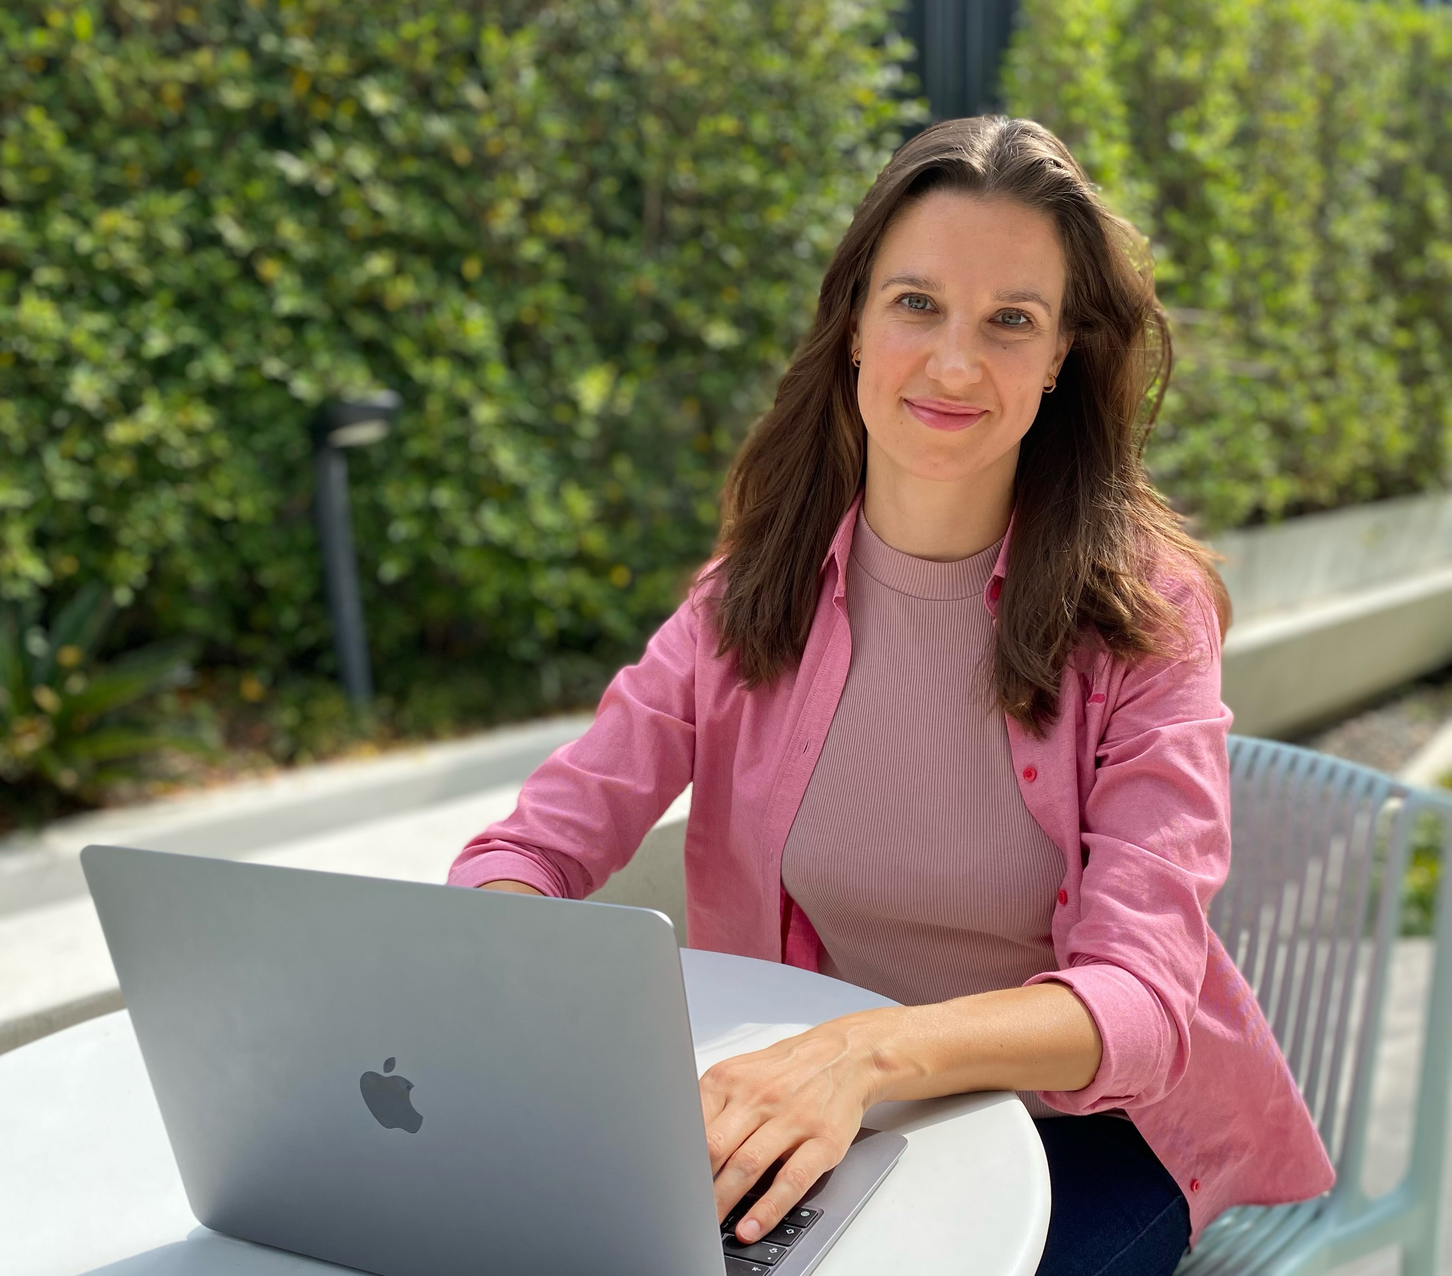
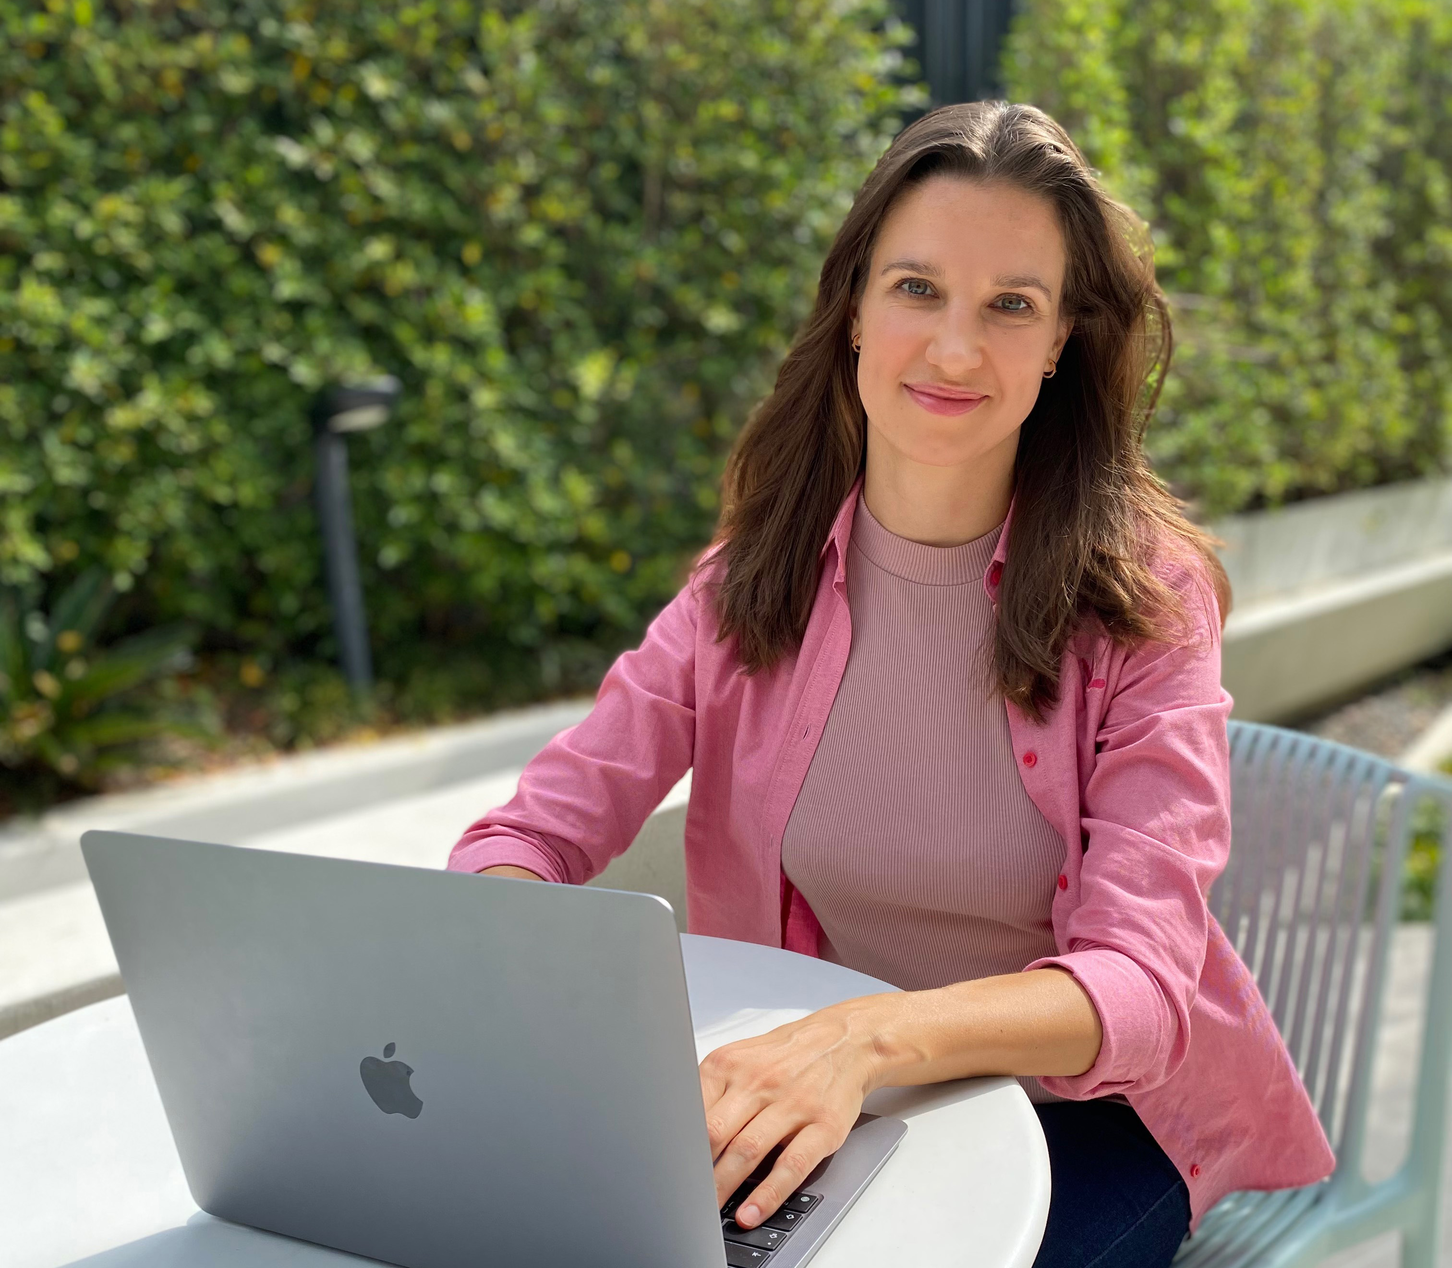
Images changed

diff --git a/index.html b/index.html
@@ -53,31 +53,51 @@
       </div>
     </section>
 
-    <section class="about container" id="about">
-      <div class="image-container">
-        <img class="about__image" src="./images/photos_studio/about.png" alt="Фотография Татьяны Трушиной">
-      </div>
-      <div class="about__info">
-        <h2 class="about__title section-title">Обо мне</h2>
-        <p class="about__text section-text">Здравствуйте! Меня зовут Татьяна, я практикующий психолог. Провожу индивидуальные консультации для взрослых очно и онлайн. Работаю как в формате краткосрочных психологических консультаций, так и в формате глубокой долгосрочной терапии, направленной на коррекцию характера и личностный рост.</p>
-        <p class="about__text section-text">В процессе консультирования я сочетаю различные психологические направления и подходы - техники телесно-ориентированного подхода, клиентцентрированного подхода, когнитивно-поведенческой терапии, эмоционально-образной терапии и гештальт-терапии.</p>
-        <p class="about__text section-text">Моя работа направлена на Ваш результат, поэтому я использую наиболее подходящие методы и техники в зависимостим от Вашего запроса и Ваших индивидуальных особенностей.</p>
-        <p class="about__text section-text">Если Вы столкнулись с жизненной ситуацией, с которой Вам трудно справиться в одиночку, Вы можете смело рассчитывать на мою профессиональную помощь и поддержку.</p>
+    <section class="about" id="about">
+      <div class="about__content container">
+        <div class="image-container">
+          <img class="about__image" src="./images/photos_studio/about.png" alt="Фотография Татьяны Трушиной">
+        </div>
+        <div class="about__info">
+          <h2 class="about__title section-title">Обо мне</h2>
+          <p class="about__text section-text">Здравствуйте! Меня зовут Татьяна, я практикующий психолог. Провожу индивидуальные консультации для взрослых очно и онлайн. Работаю как в формате краткосрочных психологических консультаций, так и в формате глубокой долгосрочной терапии, направленной на коррекцию характера и личностный рост.</p>
+          <p class="about__text section-text">В процессе консультирования я сочетаю различные психологические направления и подходы - техники телесно-ориентированного подхода, клиентцентрированного подхода, когнитивно-поведенческой терапии, эмоционально-образной терапии и гештальт-терапии.</p>
+          <p class="about__text section-text">Моя работа направлена на Ваш результат, поэтому я использую наиболее подходящие методы и техники в зависимостим от Вашего запроса и Ваших индивидуальных особенностей.</p>
+          <p class="about__text section-text">Если Вы столкнулись с жизненной ситуацией, с которой Вам трудно справиться в одиночку, Вы можете смело рассчитывать на мою профессиональную помощь и поддержку.</p>
+        </div>
+      </section>
+
+      <section class="about" id="about">
+        <div class="about__content container">
+          <div class="image-container">
+            <img class="about__image" src="./images/about_test.jpeg" alt="Фотография Татьяны Трушиной">
+          </div>
+          <div class="about__info">
+            <h2 class="about__title section-title">Обо мне</h2>
+            <p class="about__text section-text">Здравствуйте! Меня зовут Татьяна, я практикующий психолог. Провожу индивидуальные консультации для взрослых очно и онлайн. Работаю как в формате краткосрочных психологических консультаций, так и в формате глубокой долгосрочной терапии, направленной на коррекцию характера и личностный рост.</p>
+            <p class="about__text section-text">В процессе консультирования я сочетаю различные психологические направления и подходы - техники телесно-ориентированного подхода, клиентцентрированного подхода, когнитивно-поведенческой терапии, эмоционально-образной терапии и гештальт-терапии.</p>
+            <p class="about__text section-text">Моя работа направлена на Ваш результат, поэтому я использую наиболее подходящие методы и техники в зависимостим от Вашего запроса и Ваших индивидуальных особенностей.</p>
+            <p class="about__text section-text">Если Вы столкнулись с жизненной ситуацией, с которой Вам трудно справиться в одиночку, Вы можете смело рассчитывать на мою профессиональную помощь и поддержку.</p>
+          </div>
+        </div>
       </div>
     </section>
 
-    <section class="about container" id="about">
-      <div class="image-container">
-        <img class="about__image" src="./images/about-test.png" alt="Фотография Татьяны Трушиной">
+    <section class="about" id="about">
+      <div class="about__content container">
+        <div class="image-container">
+          <img class="about__image" src="./images/about_test_retouch.jpeg" alt="Фотография Татьяны Трушиной">
+        </div>
+        <div class="about__info">
+          <h2 class="about__title section-title">Обо мне</h2>
+          <p class="about__text section-text">Здравствуйте! Меня зовут Татьяна, я практикующий психолог. Провожу индивидуальные консультации для взрослых очно и онлайн. Работаю как в формате краткосрочных психологических консультаций, так и в формате глубокой долгосрочной терапии, направленной на коррекцию характера и личностный рост.</p>
+          <p class="about__text section-text">В процессе консультирования я сочетаю различные психологические направления и подходы - техники телесно-ориентированного подхода, клиентцентрированного подхода, когнитивно-поведенческой терапии, эмоционально-образной терапии и гештальт-терапии.</p>
+          <p class="about__text section-text">Моя работа направлена на Ваш результат, поэтому я использую наиболее подходящие методы и техники в зависимостим от Вашего запроса и Ваших индивидуальных особенностей.</p>
+          <p class="about__text section-text">Если Вы столкнулись с жизненной ситуацией, с которой Вам трудно справиться в одиночку, Вы можете смело рассчитывать на мою профессиональную помощь и поддержку.</p>
+        </div>
       </div>
-      <div class="about__info">
-        <h2 class="about__title section-title">Обо мне</h2>
-        <p class="about__text section-text">Здравствуйте! Меня зовут Татьяна, я практикующий психолог. Провожу индивидуальные консультации для взрослых очно и онлайн. Работаю как в формате краткосрочных психологических консультаций, так и в формате глубокой долгосрочной терапии, направленной на коррекцию характера и личностный рост.</p>
-        <p class="about__text section-text">В процессе консультирования я сочетаю различные психологические направления и подходы - техники телесно-ориентированного подхода, клиентцентрированного подхода, когнитивно-поведенческой терапии, эмоционально-образной терапии и гештальт-терапии.</p>
-        <p class="about__text section-text">Моя работа направлена на Ваш результат, поэтому я использую наиболее подходящие методы и техники в зависимостим от Вашего запроса и Ваших индивидуальных особенностей.</p>
-        <p class="about__text section-text">Если Вы столкнулись с жизненной ситуацией, с которой Вам трудно справиться в одиночку, Вы можете смело рассчитывать на мою профессиональную помощь и поддержку.</p>
-      </div>
-    </section>
+    </div>
+  </section>
 
     <section class="diplomas container" id="diplomas">
         <h2 class="section-title diplomas__title">Моё образование</h2>
@@ -97,7 +117,7 @@
 
     <section class="request" id="request">
       <div class="request__content container">
-        <h2 class="request__title section-title">С чем я работаю</h2>
+        <h2 class="request__title section-title">Чем я могу помочь</h2>
         <ul class="request-list list">
           <li class="request-item">
             <h3 class="request-item__title">Отношения с собой</h3>
@@ -141,29 +161,33 @@
 
     <section class="services" id="services">
       <div class="services__content container">
+        <h2 class="services__title section-title">Стоимость</h2>
         <div class="services__info">
           <p class="services__name section-subtitle">Индивидуальная консультация</p>
+          <p class="services__desc section-text">Онлайн / Офлайн</p>
           <p class="services__price section-subtitle">3000 руб.</p>
           <p class="services__duration section-text">60 минут</p>
-        </div>
-        <div class="services__photo">
-          <img class="services__image" src="./images/photos/services.jpeg" alt="Фотография консультации Татьяны Трушиной">
+          <a class="button services__button link" href="#about">Записаться на консультацию</a>
         </div>
       </div>
     </section>
+
+
     <section class="contact-me" id="contact">
+      <div class="photo-container">
+          <img class="cover-image" src="./images/photos/services.jpeg" alt="Фотография консультации Татьяны Трушиной">
+        </div>
+      <div class="contact-me__photo">
+        <img class="contact-me__image" src="./images/contact_test.jpg" alt="Фотография Татьяны Трушиной">
+      </div>
       <div class="contact-me__info">
         <p class="contact-me__text section-text">Если у Вас остались какие-либо вопросы, Вы всегда можете связаться со мной, и я с удовольствием на них отвечу.</p>
-      </div>
-      <div class="contact-me__photo">
-        <img class="contact-me__image" src="./images/photos/test.jpeg" alt="Фотография Татьяны Трушиной">
       </div>
     </section>
 
   </main>
   <footer class="footer">
     <div class="footer__content container">
-      <img class="footer__logo logo " src="./images/psychology_icon.jpg" alt="Логотип сайта">
       <ul class="social-links footer__social-links list">
         <li class="social-link">
           <a class="button social-link__button link wa-link" href="https://wa.me/79265837398" target="_blank" aria-label="Связаться со мной через WhatsApp"> </a>

diff --git a/index.css b/index.css
@@ -153,7 +153,7 @@
   column-gap: 40px;
 }
 
-@media (max-width: 1200px) {
+@media (max-width: 960px) {
   .page__nav {
     display: none;
   }
@@ -369,6 +369,7 @@
     width: 100%;
     text-align: center;
     padding: 40px 0;
+    z-index: 0;
   }
   .promo__title .span-accent {
     margin: 0;
@@ -396,6 +397,11 @@
 }
 
 .about {
+  background-color: rgba(174, 124, 120, 0.2);
+  border-radius: 30px;
+}
+
+.about__content {
   padding: 60px 0 60px;
   display: flex;
   flex-direction: row;
@@ -404,9 +410,10 @@
 }
 
 .about__image {
-  width: 100%;
+  width: 80%;
   display: block;
   margin: auto;
+  border-radius: 30px;
 }
 
 .about__title {
@@ -421,7 +428,7 @@
 }
 
 @media (max-width: 960px) {
-  .about {
+  .about__content {
     flex-wrap: wrap;
     justify-content: center;
   }
@@ -482,21 +489,18 @@
 }
 
 .request-list {
-  display: flex;
-  flex-direction: row;
-  justify-content: space-between;
-  flex-wrap: wrap;
-  row-gap: 60px;
+  justify-content: center;
+  display: grid;
+  grid-template-columns: repeat(auto-fit, minmax(310px, 500px));
+  grid-gap: 60px;
 }
 
 .request-item {
   position: relative;
-  min-height: 228px;
   background: var(--clr-main);
   border: 2px solid var(--clr-dark);
   padding: 22px 22px 22px 100px;
   box-sizing: border-box;
-  width: 45%;
   border-radius: 30px;
 }
 
@@ -541,10 +545,11 @@
 }
 
 .services__content {
-  display: flex;
-  flex-direction: row;
-  justify-content: space-between;
-  background-color: var(--clr-dark);
+}
+
+.services__title {
+  text-align: center;
+  margin-bottom: 60px;
 }
 
 .services__photo {
@@ -559,53 +564,57 @@
 
 .services__info {
   width: 50%;
-  padding: 0 60px;
+  padding: 60px;
   box-sizing: border-box;
   color: white;
   display: flex;
   flex-direction: column;
   justify-content: center;
   text-align: center;
+  background-color: var(--clr-dark);
+  margin: 0 auto;
+  border-radius: 30px;
 }
 
 .services__name {
-  margin-bottom: 40px;
+  margin-bottom: 20px;
+}
+
+.services__desc {
+  margin-bottom: 60px;
 }
 
 .services__price {
   margin-bottom: 20px;
 }
 
+.services__duration {
+  margin-bottom: 40px;
+}
+
 .contact-me {
-  display: flex;
-  flex-direction: row;
-  justify-content: space-between;
-  width: 45%;
   margin: 0 auto;
-  padding: 25px 40px;
-  border-radius: 10px;
-  background-color: var(--clr-secondary);
-  background-position: center center;
-  border-color: transparent;
-  border-style: solid;
-  box-shadow: 0px 0px 5px 1px rgb(168 168 168 / 30%);
-  margin-bottom: -120px;
-  z-index: 1;
-  position: relative;
+  padding: 25px 0;
+}
+
+.cover-image {
+  display: block;
+  width: 100%;
+  border-radius: 30px;
 }
 
 .contact-me__info {
-  width: 50%;
-  display: flex;
-  justify-content: center;
-  align-items: center;
-  padding-right: 40px;
-  box-sizing: border-box;
-  color: white;
+  width: 25%;
+  margin: 0 auto;
+  text-align: center;
 }
 
 .contact-me__photo {
-  width: 50%;
+  width: 200px;
+  height: 200px;
+  overflow: hidden;
+  border-radius: 50%;
+  margin: -100px auto 20px;
 }
 
 .contact-me__image {
@@ -616,23 +625,15 @@
 
 .footer{
   background: var(--clr-dark);
-  padding-bottom: 60px;
+  padding: 20px 0 60px;
   position: relative;
 }
 
 .footer__content {
-  padding: 75px 0 45px;
+  padding-bottom: 25px;
   border-bottom: 1px solid rgba(255, 255, 255, 0.15);
 }
 
-.footer__logo {
-  width: auto;
-  height: 61px;
-}
-
 .footer__social-links {
-  position: absolute;
-  left: 30%;
-  top: 32px;
-  z-index: 2;
+  margin: 0 auto;
 }
